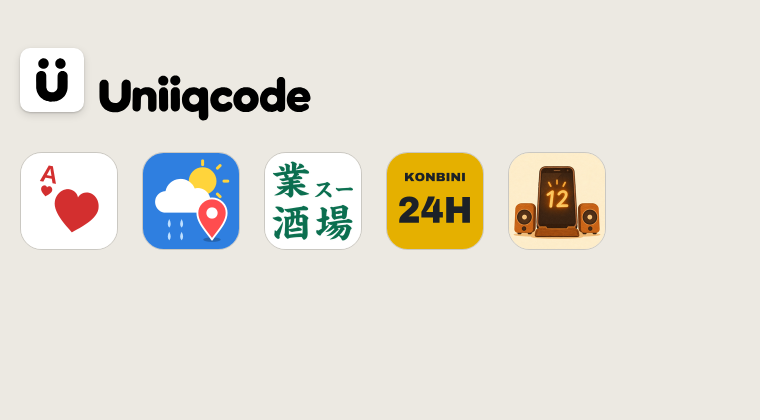
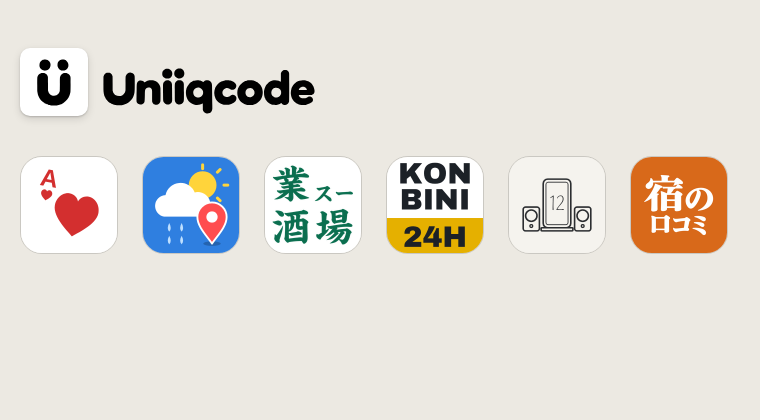
Still Here: アイコンを画面に合わせたシンプルな線画にする(Gemini案を図形で描き直したG2案)
Claude-Session: https://claude.ai/code/session_01NVsEU5YZ5BtdUQZHyMLdES

diff --git a/tools/still-here-icon/export.js b/tools/still-here-icon/export.js
@@ -1,0 +1,22 @@
+// docs/still-here/icon.svg から、アプリで使う全サイズの PNG を書き出す
+const { chromium } = require('playwright'); const fs = require('fs');
+(async () => {
+  const root = process.argv[2], svg = fs.readFileSync(root + '/docs/still-here/icon.svg', 'utf8');
+  const bg = '#F5F3EE', out = root + '/still-here/icons/';
+  const b = await chromium.launch();
+  const shot = async (name, w, h, html) => {
+    const p = await b.newPage({ viewport: { width: w, height: h } });
+    await p.setContent(`<html><body style="margin:0;background:${bg}">${html}</body></html>`);
+    await p.screenshot({ path: out + name }); await p.close();
+  };
+  const sized = n => svg.replace('<svg ', `<svg width="${n}" height="${n}" style="display:block" `);
+  for (const [name, n] of [['icon-512.png', 512], ['icon-192.png', 192], ['apple-touch-icon.png', 180], ['favicon-32.png', 32]]) await shot(name, n, n, sized(n));
+  // 丸く切られる用: 中央80%の円に収まるよう、絵を78%に縮めて地の色の上に置く
+  for (const [name, n] of [['icon-maskable-512.png', 512], ['icon-maskable-192.png', 192]]) {
+    const s = Math.round(n * 0.78), m = (n - s) / 2;
+    await shot(name, n, n, `<div style="padding:${m}px">${sized(s)}</div>`);
+  }
+  // SNSで共有した時の画像(1200×630)
+  await shot('og-image.png', 1200, 630, `<div style="display:flex;justify-content:center;padding-top:15px">${sized(600)}</div>`);
+  await b.close();
+})();

diff --git a/still-here/sw.js b/still-here/sw.js
@@ -22,7 +22,8 @@ const CACHE_PREFIX = 'uniiqcode-still-here-';
 // v13→v14(2026年11月): 位置情報の説明(許可画面の前)と、このアプリについてのページ(about.html)を足した。
 // v14→v15(2026年11月): about.html にラジオ局を選んだ経緯と各局の音質を足した。
 // v15→v16(2026年11月): 画面の高さを実際に見えている高さにした(iPhone の Safari で局の名前が下で切れるため)。
-const CACHE_NAME = CACHE_PREFIX + 'v16';
+// v16→v17(2026年11月): アイコンを画面に合わせたシンプルな線画にした。
+const CACHE_NAME = CACHE_PREFIX + 'v17';
 
 const APP_SHELL = [
   './', 'index.html', 'about.html', 'app.js', 'manifest.json',

diff --git a/tools/still-here-icon/make_icon.py b/tools/still-here-icon/make_icon.py
@@ -1,0 +1,31 @@
+"""Still Here のアイコン(docs/still-here/icon.svg)を作る。
+使い方: python3 tools/still-here-icon/make_icon.py → node tools/still-here-icon/export.js .
+"""
+import re
+import os
+ROOT=os.path.join(os.path.dirname(os.path.abspath(__file__)),'..','..')
+N=os.path.join(ROOT,'still-here','numerals')+'/'
+def digit(ch):
+    t=open(f'{N}TN-{ch}-v01.svg').read()
+    return float(re.search(r'viewBox="0 0 ([\d.]+)',t).group(1)), re.search(r'<g[\s\S]*</g>',t).group(0)
+def twelve(cx,cy,h,color,gap=5):
+    sc=h/1600; ws=[digit(c) for c in '12']; tot=sum(w for w,_ in ws)*sc+gap; x=cx-tot/2; out=''
+    for w,g in ws:
+        out+=f'<g transform="translate({x:.1f},{cy-h/2:.1f}) scale({sc:.5f})" color="{color}" fill="{color}">{g}</g>'; x+=w*sc+gap
+    return out
+# Gemini 案の形(1024px)を 512px に写し、全体を中央に向けて少し縮める(丸く切られても欠けないように)
+def icon(bg,ink,sw=7,k=0.92):
+    def T(v,c=256): return c+(v-c)*k
+    def R(x,y,w,h,rx,w2=None): return f'<rect x="{T(x):.1f}" y="{T(y):.1f}" width="{w*k:.1f}" height="{h*k:.1f}" rx="{rx*k:.1f}" fill="none" stroke="{ink}" stroke-width="{w2 or sw}"/>'
+    def C(cx,cy,r,w): return f'<circle cx="{T(cx):.1f}" cy="{T(cy):.1f}" r="{r*k:.1f}" fill="none" stroke="{ink}" stroke-width="{w}"/>'
+    g=''
+    for x in (60,358):  # 左右のスピーカー
+        g+=R(x,268,94,138,14)+C(x+47,318,33,sw)+C(x+47,378,8,sw*0.8)
+    g+=R(176,106,160,282,26)          # スマホの外枠
+    g+=R(192,124,128,246,13,sw*0.55)  # 画面(内枠)。外枠より細い線で、すき間を広めに
+    g+=R(164,388,184,18,5)            # 平らな台
+    g+=twelve(T(256),T(244),104*k,ink)
+    return f'<svg xmlns="http://www.w3.org/2000/svg" viewBox="0 0 512 512"><rect width="512" height="512" fill="{bg}"/>{g}</svg>'
+DAY=('#F5F3EE','#2B2D30'); NIGHT=('#12161A','#ECE8DF')
+# 採用したのは昼の色・線の太さ 8.5(G2案)
+open(os.path.join(ROOT,'docs','still-here','icon.svg'),'w').write(icon(*DAY,sw=8.5))

diff --git a/docs/still-here.md b/docs/still-here.md
@@ -134,12 +134,11 @@ niisan.tv の `stations.txt` から選んだ（世界中のネットラジオ局
 ## 6.5 ホーム画面に追加
 
 - `manifest.json`（standalone）、アイコン（`icons/`）、`apple-touch-icon` を用意した。
-- アイコン: 木のスタンドに立つ小さめのスマホと、両側のミニスピーカー。画面に琥珀色に光る「12」。レトロ調で、スマホが余生を楽しんでいる感じ（2026-11-10）。
-  - 元画像は ChatGPT で生成し、浮かんでいた音符を消して採用した（Claude・Gemini の案と比べて選んだ）。
-  - 元画像（音符を消したもの、1254px）: `docs/still-here/icon-source.webp`。サイズを作り直す時はここから。
-  - 512・192・180（apple-touch-icon）・32（favicon）px と、ホーム画面で丸く切られる用の `icon-maskable-*.png`（絵を78%に縮めて地の色の上に置いたもの）。
-- オフライン用の `sw.js` は自分のファイルだけを保存する。ファイルを変えたら `CACHE_NAME` を上げる。
-- 「ホーム画面に追加」ボタンは共通部品 `assets/a2hs.js` を使う。
+- アイコン（2026-11-20 に差し替え）: 中央にスタンドに立つスマホ、両側にスピーカー。アプリの画面と同じく、砂色の地に墨色の線だけで描いたシンプルな線画。画面の「12」はアプリの時刻と同じ travelフォント。
+  - Gemini で作った線画案の形を、図形（SVG）で描き直したもの。線を太くして60pxでも見えるようにし、丸く切られても欠けないよう全体を少し縮めた。
+  - 元の絵: `docs/still-here/icon.svg`。作り直し方は `tools/still-here-icon/README.md`。
+  - 512・192・180（apple-touch-icon）・32（favicon）px、丸く切られる用の `icon-maskable-*.png`（絵を78%に縮めたもの）、SNS用の `og-image.png`。
+  - 前のアイコン（ChatGPT で作った、木のスタンドと光る「12」の絵）は `docs/still-here/icon-v1-chatgpt.webp`。絵としてはよいが、画面のシンプルでクールな雰囲気と違うので替えた。
 
 ## 6.7 このアプリについて（about.html）
 

diff --git a/tools/still-here-icon/README.md b/tools/still-here-icon/README.md
@@ -1,0 +1,8 @@
+# Still Here のアイコン
+
+- 元になる絵: `docs/still-here/icon.svg`（図形で描いた線画。色はアプリの昼の色、「12」は travelフォント `still-here/numerals/`）
+- 作り直す時:
+  1. `python3 tools/still-here-icon/make_icon.py` … 形や線の太さを変えたら、これで `icon.svg` を作り直す
+  2. `node tools/still-here-icon/export.js .` … `still-here/icons/` の PNG（512・192・180・32・丸型用・SNS用）を書き出す（Playwright を使う）
+  3. `still-here/sw.js` の `CACHE_NAME` を上げる
+- 前のアイコン（ChatGPT で作った絵）は `docs/still-here/icon-v1-chatgpt.webp`
